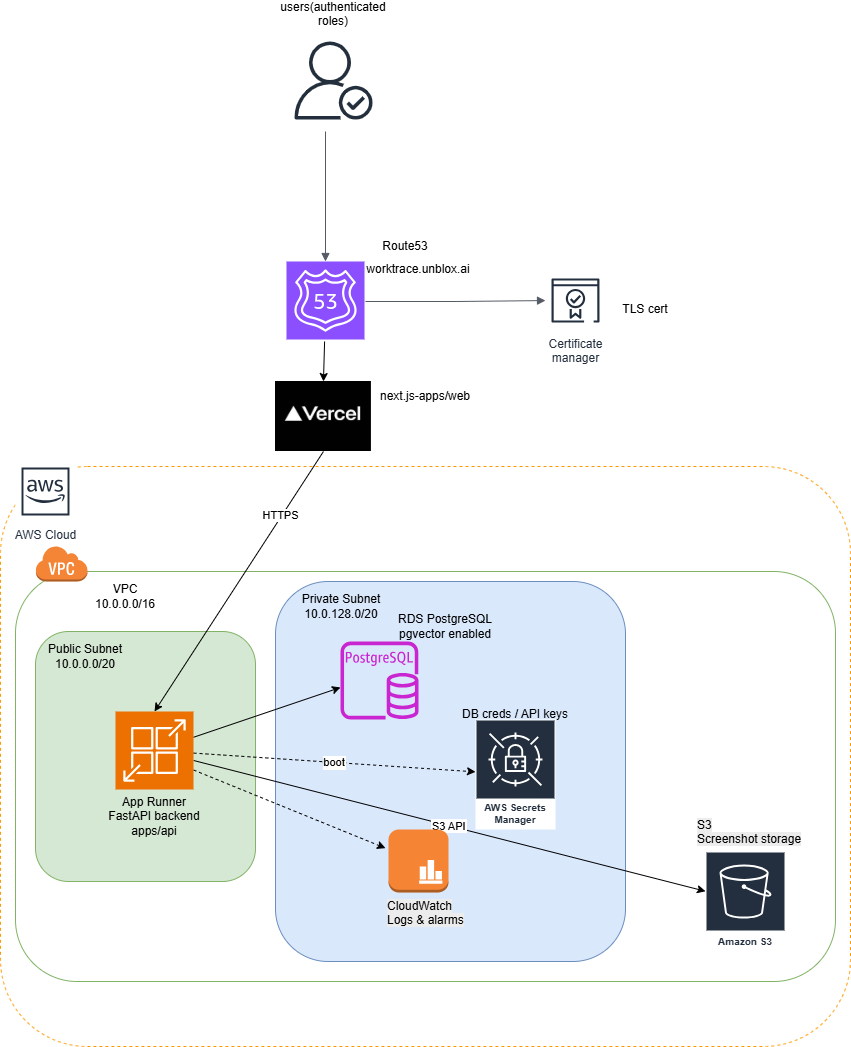
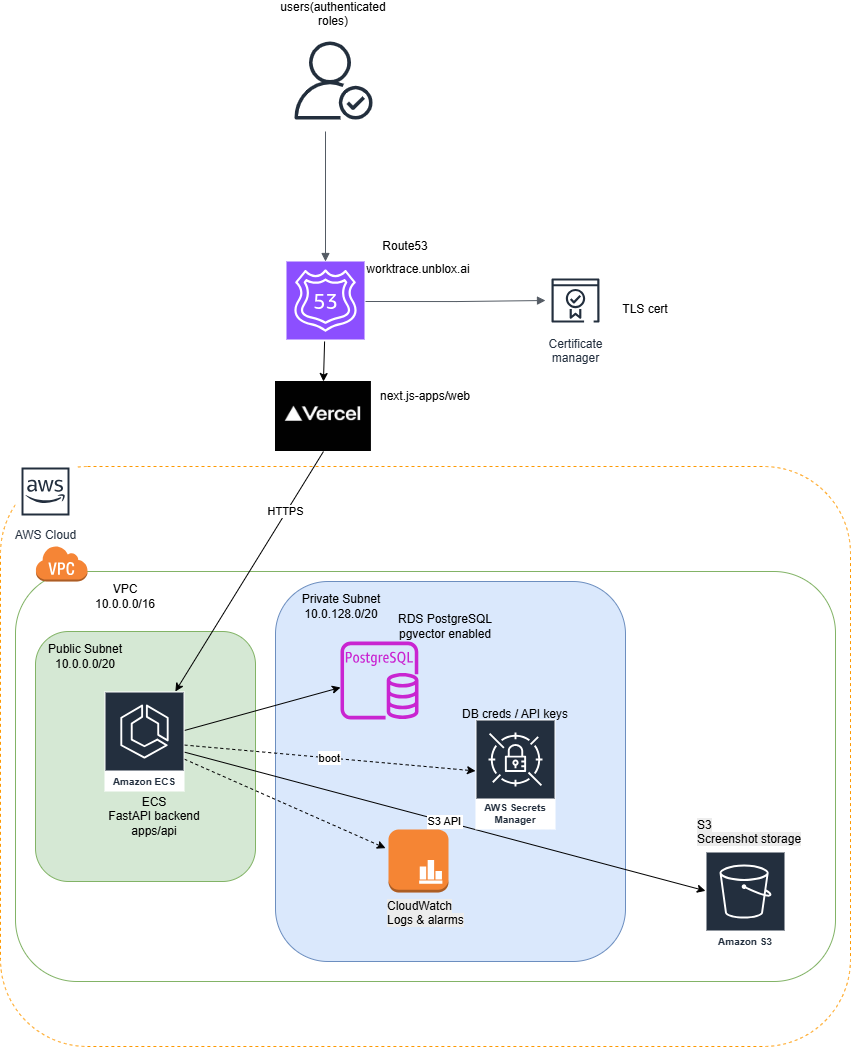
replace AWS App runner with ECS

diff --git a/docs/deployment.md b/docs/deployment.md
@@ -46,37 +46,41 @@ homepage should load.
 Update `NEXT_PUBLIC_API_BASE_URL` in Vercel project settings to point at the
 real backend URL. Vercel rebuilds previews automatically on the next push.
 
-## Backend - AWS App Runner
+## Backend - AWS ECS Fargate
 
-The FastAPI backend (`apps/api`) is deployed to AWS App Runner. App Runner builds from the GitHub monorepo and redeploys on merges to `main`.
-
-Production backend URL: TBD
-Health check: `GET /api/v1/health`
+The FastAPI backend (`apps/api`) is deployed as a Docker container on AWS ECS
+Fargate. The original target was AWS App Runner, but App Runner is unavailable
+for this AWS account because AWS no longer accepts new App Runner customers.
+ECS Fargate is the replacement backend container service.
 
 Production backend URL: TBD  
 Health check: `GET /api/v1/health`
 
 ### AWS services
 
-- AWS App Runner: FastAPI backend (`apps/api`)
+- Application Load Balancer: public backend entrypoint
+- ECS Fargate Service: FastAPI backend
+- ECR: backend Docker image
 - AWS RDS PostgreSQL: application database
 - pgvector: enabled with `CREATE EXTENSION IF NOT EXISTS vector`
 - AWS S3: screenshot object storage
 - AWS Secrets Manager: database credentials and API secrets
-- AWS CloudWatch: App Runner logs and health alarms
+- AWS CloudWatch: ECS task logs and health alarms
 
-### App Runner environment variables
+### ECS environment variables
 
 Do not commit real secret values to the repository.
 
 - `DATABASE_URL`
 - `SECRET_KEY`
+- `API_CORS_ORIGINS`
 - `OPENAI_API_KEY`
+- `OPENAI_MODEL`
 - `S3_BUCKET_NAME`
-- `S3_REGION`
+- `S3_REGION_NAME`
 - `S3_ACCESS_KEY_ID`
 - `S3_SECRET_ACCESS_KEY`
-- `CORS_ORIGINS`
+- `S3_ENDPOINT_URL` only needed for local MinIO or non-AWS S3-compatible storage
 
 ### Database migrations
 
